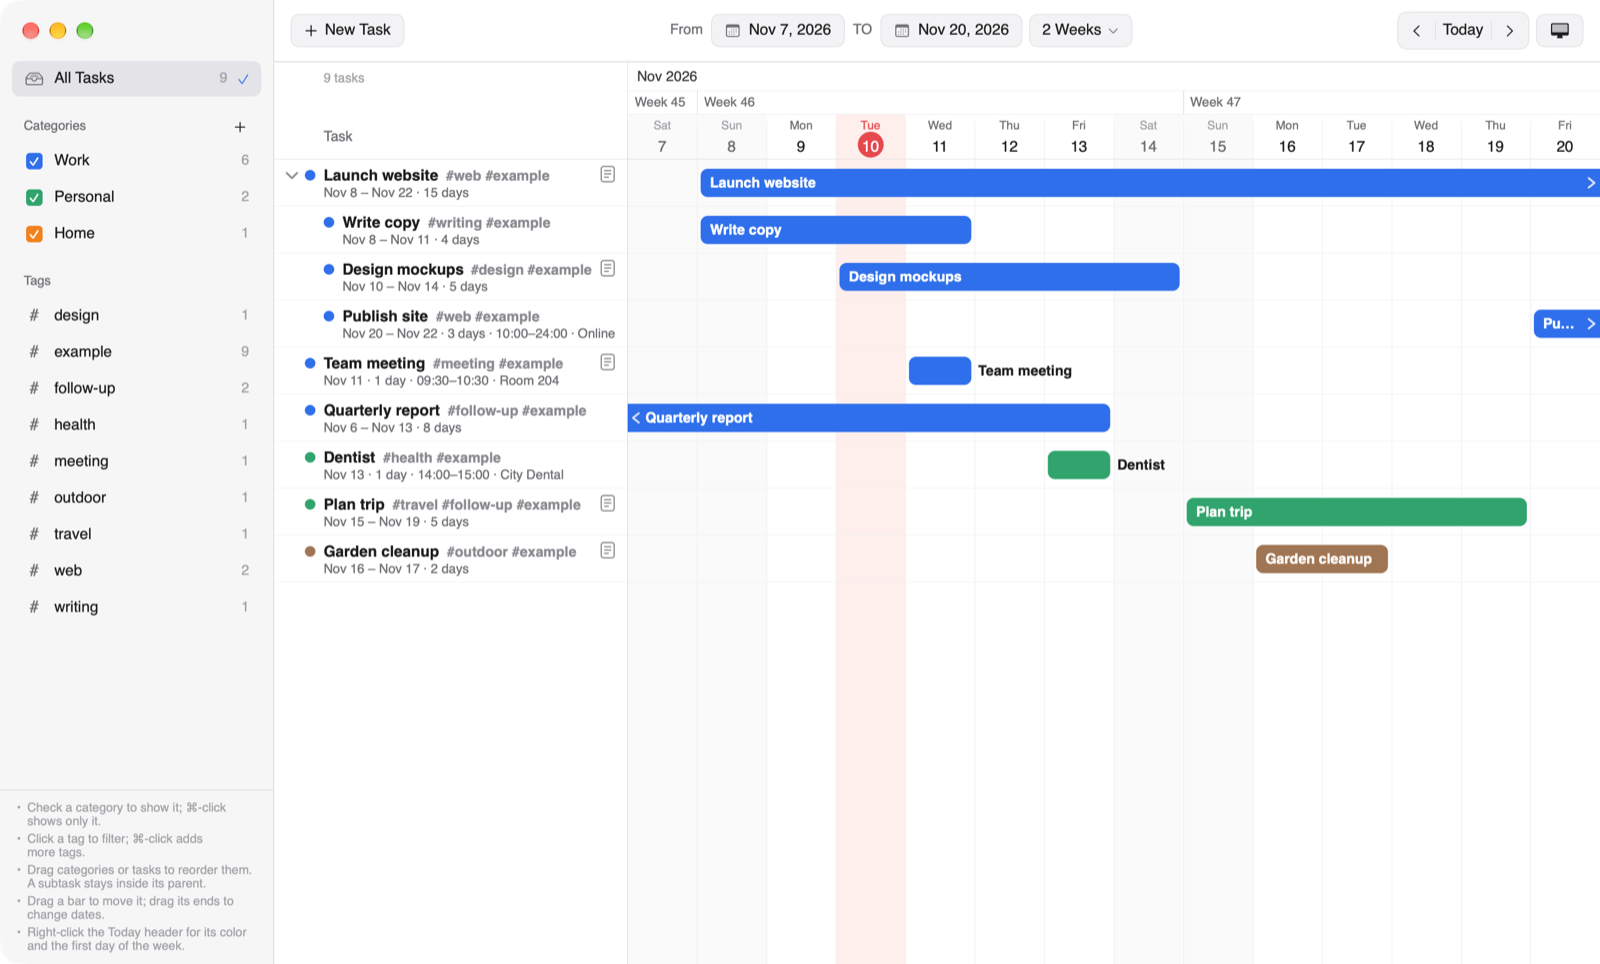
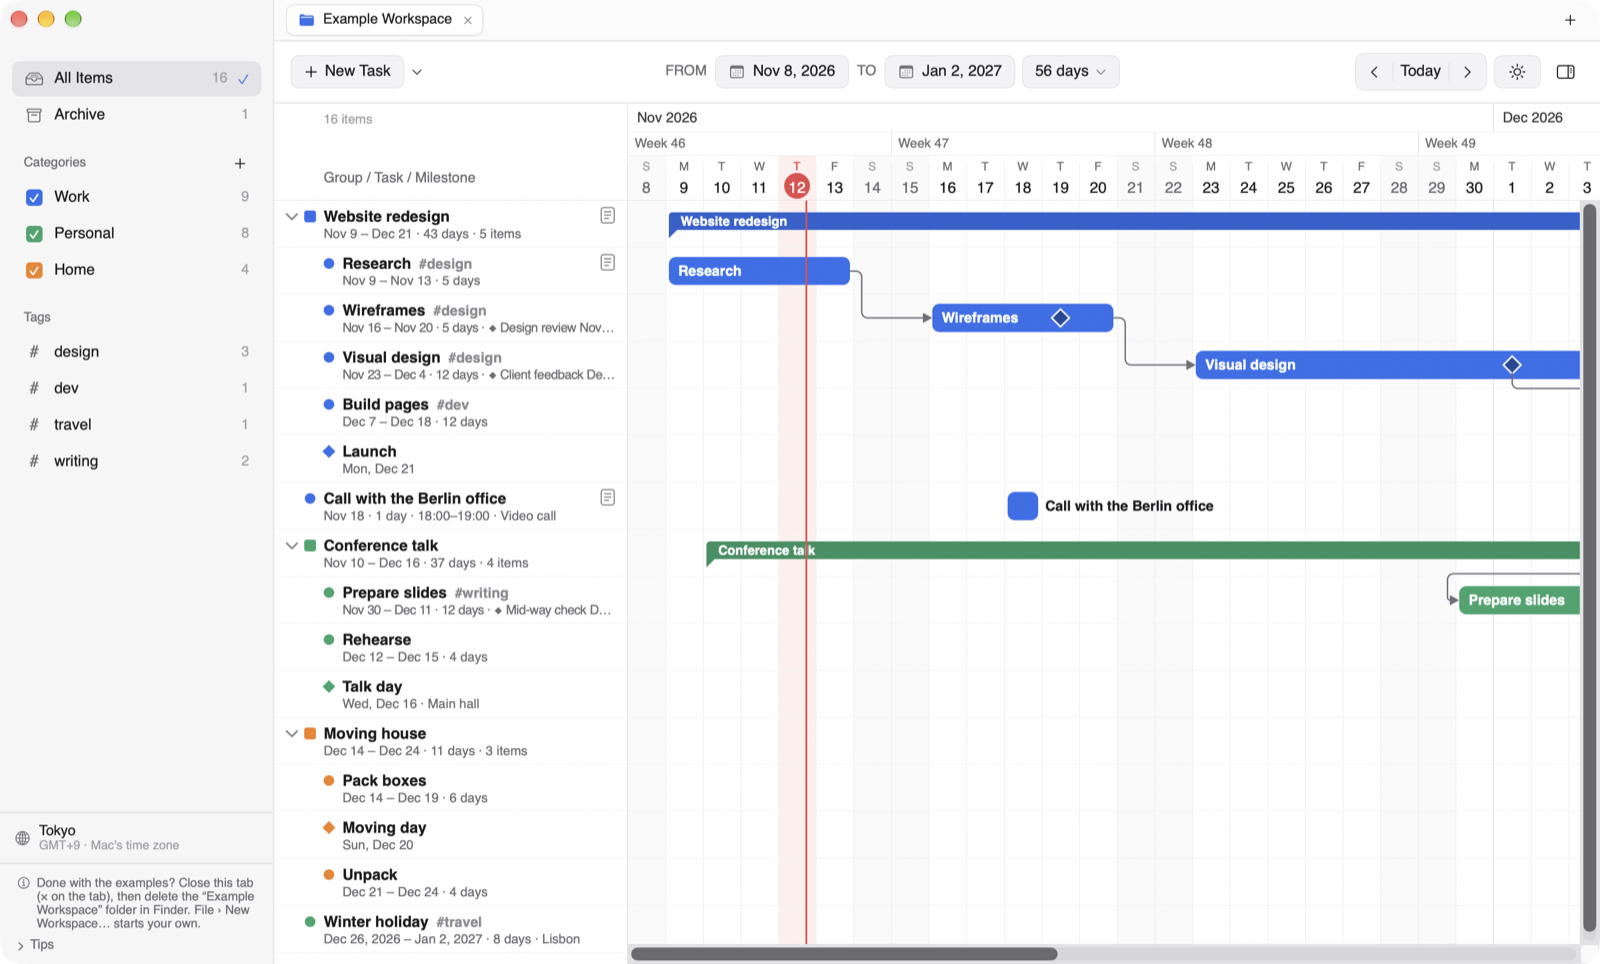
Add files via upload

diff --git a/README.md b/README.md
@@ -4,120 +4,153 @@
 
 # DaySpindle
 
-A Gantt chart task manager for macOS and Windows. Plan tasks and subtasks on a day-by-day timeline, color them by category, tag them, and drag their bars to reschedule.
+A Gantt chart task manager for macOS and Windows. Plan **groups**, **tasks** and **milestones** on a day-by-day timeline. Join them with **dependency arrows**, color them by category, tag them, and drag their bars to reschedule.
 
-It runs entirely on your computer: no account, no cloud service, no network access. Your tasks live in one readable JSON file, and the Mac and Windows versions use the same file format, so you can move your tasks between them.
+It runs entirely on your computer: no account, no cloud service, no network access. Everything is saved in a **workspace folder** you choose. The Mac and Windows versions open the same workspace folders, so you can keep one in iCloud Drive, OneDrive or on a USB stick, or move it between a Mac and a PC.
 
-![DaySpindle on macOS, showing the example tasks](docs/screenshot.png)
+![DaySpindle on macOS, showing the Example Workspace](docs/screenshot.png)
 
-**Version 2.0.** Developed by **Ruichen Li**. Free for everyone to use under the [MIT License](LICENSE). If you share it, keep the author's name with it.
+**Version 2.1.** Developed by **Ruichen Li**. Free for everyone to use under the [MIT License](LICENSE). If you share it, keep the author's name with it.
 
 
 ## Choose your version
 
 | | macOS | Windows |
 |---|---|---|
-| **Download** | [`DaySpindle-2.0-macOS.zip`](macOS/DaySpindle-2.0-macOS.zip) (2.2 MB) | the [`Windows`](Windows) folder: one zip in 7 parts, plus `join-parts.cmd` (158 MB in all) |
-| **Needs** | macOS 14 Sonoma or later, on Apple silicon or Intel | Windows 10 or 11, 64-bit (Windows 11 on Arm runs it through emulation) |
-| **Size once unpacked** | about 7 MB | about 360 MB |
+| **Download** | [`DaySpindle-2.1-macOS.zip`](macOS/DaySpindle-2.1-macOS.zip) (2.9 MB) | the [`Windows`](Windows) folder: [`Start DaySpindle.cmd`](Windows/Start%20DaySpindle.cmd) and the app in 8 parts in [`package`](Windows/package) (151 MB in all) |
+| **Needs** | macOS 14 Sonoma or later, on Apple silicon or Intel | Windows 10 (version 1803 or later) or Windows 11, 64-bit (Windows 11 on Arm runs it through emulation) |
+| **Size once unpacked** | about 10 MB | about 360 MB |
 | **Made with** | Swift (AppKit and SwiftUI), a native Mac app | Electron |
 | **Full instructions** | [macOS README](macOS/README.md) | [Windows README](Windows/README.md) |
 
-The two versions look and work the same way. Nothing has to be built or installed: unzip and open.
+The two versions look and work the same way. Each folder also holds an **`Example Workspace`** to try things out, and the app's source code in `source`.
 
-GitHub accepts files of at most 25 MB through its web page, so the Windows zip is split into 7 parts. [`join-parts.cmd`](Windows/join-parts.cmd) joins them back together on Windows without any extra software. See [Install on Windows](#install-on-windows).
+GitHub accepts files of at most 25 MB through its web page, so the Windows app is split into 8 parts of at most 20 MB. The first time you run it, [`Start DaySpindle.cmd`](Windows/Start%20DaySpindle.cmd) puts the parts back together on Windows, checks the result and unpacks the app, without any extra software.
+
+
+## What's new in 2.1
+
+- **Groups, tasks and milestones.** A task with subtasks becomes a group that spans everything inside it. A milestone can have its own row, or sit on a task's bar to mark a key moment such as a review or a deadline.
+- **Dependency arrows** between items (Finish → Start and the other three types). An arrow can leave from and arrive at any of an item's four sides, and each arrow has its own color and thickness.
+- **A details pane on the right.** Double-click an item or an arrow to see and edit everything about it.
+- **Completed and the Archive.** Mark an item as completed, whether you finished on time or early. It moves to the **Archive** in the sidebar, together with everything inside it. Unmark it there and it returns to exactly where it was.
+- **Time zones,** like Calendar: an item with a time keeps the moment it was entered in, and shows in the time zone you choose.
+- **Workspaces and tabs.** Each workspace is a folder you choose, and several can be open at once, each in its own tab along the top of the window.
+- **An Example Workspace** that opens by itself the first time, and **Tips** you can unfold at the bottom left of the window.
+
+Everything that changed since 2.0, in short: [CHANGELOG.md](CHANGELOG.md). Coming from 2.0? Your tasks aren't lost. See [Upgrading from 2.0](#upgrading-from-20).
 
 
 ## Features
 
 - A timeline with a month bar, week numbers and weekdays. Choose the range with From/TO dates or a time scale from 1 Week to 1 Year, and scroll sideways through time.
-- Tasks with start and end dates, optional start and end times, location and notes. Subtasks nest under their parents and can be collapsed.
-- Categories with colors and notes, each with a checkbox to show or hide its tasks. Tags work as filters, and they combine with categories.
-- Drag a bar to move a task, drag its ends to change its dates, and drag rows to reorder tasks and categories.
+- Items with start and end dates, optional start and end times and time zone, location and notes. Groups can be collapsed.
+- Categories with colors and notes, each with a checkbox to show or hide its items. Tags work as filters, and they combine with categories.
+- Drag a bar to move an item, drag its ends to change its dates, and drag rows to reorder items and categories. Dragging a group moves everything inside it.
 - Light, Dark or System appearance, a Today color you choose, and Sunday, Monday or Saturday as the first day of the week.
 - Undo and redo for every change. Each change is saved straight away.
 
 
 ## Download
 
-- **Both versions at once:** click the green **Code** button at the top of this page, choose **Download ZIP** (about 160 MB), and unzip it. The Mac version is in its `macOS` folder, the Windows version in its `Windows` folder.
-- **Only the Mac version:** open [`macOS/DaySpindle-2.0-macOS.zip`](macOS/DaySpindle-2.0-macOS.zip) and click the download button (**Download raw file**) at the top right.
-- **Only the Windows version:** open the [`Windows`](Windows) folder and download its 7 parts (`DaySpindle-2.0-Windows-x64.zip.001` to `.007`) and `join-parts.cmd` the same way, into one folder.
+- **Both versions at once (easiest):** click the green **Code** button at the top of this page, choose **Download ZIP** (about 155 MB), and unzip it. The Mac version is in its `macOS` folder, the Windows version in its `Windows` folder, each with its `Example Workspace`.
+- **With git:** `git clone` this repository.
+
+GitHub's web page doesn't download single folders, so the full download is the simplest way to get an app together with its Example Workspace. To get only the Mac app, open [`macOS/DaySpindle-2.1-macOS.zip`](macOS/DaySpindle-2.1-macOS.zip) and click the download button (**Download raw file**) at the top right. It works without the Example Workspace: choose **File › New Workspace…** to start your own.
 
 
 ## Install on a Mac
 
-1. Double-click `DaySpindle-2.0-macOS.zip` to unzip it. Open the `DaySpindle-2.0-macOS` folder it makes, and drag `DaySpindle.app` into **Applications**.
-2. Open it. The app isn't signed by an Apple-registered developer or notarized by Apple, so macOS blocks it the first time:
+1. Open the `macOS` folder and double-click `DaySpindle-2.1-macOS.zip`. `DaySpindle.app` appears next to it, beside the `Example Workspace` folder.
+2. Open `DaySpindle.app`. It isn't signed by an Apple-registered developer or notarized by Apple, so macOS blocks it the first time:
    - **macOS 15 or later:** click **Done**. Open **System Settings › Privacy & Security**, scroll down, click **Open Anyway** next to the message about DaySpindle, and confirm.
    - **macOS 14:** right-click the app, choose **Open**, then click **Open**.
 
    macOS remembers your choice, so you do this only once.
-3. The first start shows a few example tasks around today's date, all tagged **#example**. Delete them when you're ready. **Help › Add Example Tasks** brings them back.
+3. The Example Workspace opens by itself. If you see the welcome screen instead, choose **Open Workspace…** and pick the `Example Workspace` folder.
 
-All the details, including where your tasks are kept and how to remove the app, are in the [macOS README](macOS/README.md).
+You can move `DaySpindle.app` to your Applications folder whenever you like. All the details are in the [macOS README](macOS/README.md).
 
 
 ## Install on Windows
 
-1. **Join the parts.** Put the 7 parts and `join-parts.cmd` in one folder, then double-click `join-parts.cmd`. If Windows warns about a file from the internet, click **More info**, then **Run anyway** (or **Run**). It joins the parts into `DaySpindle-2.0-Windows-x64.zip`, checks that the zip is complete, and says **Done**.
-2. **Unzip it.** Right-click `DaySpindle-2.0-Windows-x64.zip` and choose **Properties**. If you see **Unblock**, tick it and click **OK**. Then right-click the zip and choose **Extract All**.
-3. **Put the `DaySpindle-2.0-Windows-x64` folder where it can stay,** for example `C:\Users\<your name>\DaySpindle`. Don't run the app from inside the zip or from a USB stick, and avoid `C:\Program Files`.
-4. **Open the `DaySpindle for Windows` folder and double-click `DaySpindle.exe`.** The app isn't signed by a publisher, so Windows may say "Windows protected your PC". Click **More info**, then **Run anyway**. Windows asks only once.
-5. The first start shows the same example tasks as on the Mac.
+1. Open the `Windows` folder and double-click **`Start DaySpindle.cmd`**. Keep everything in the `Windows` folder together.
+   - If Windows says **"Windows protected your PC"**, click **More info**, then **Run anyway**. The app isn't signed by a publisher, so Windows doesn't recognize it yet.
+   - If Windows asks whether to run a file downloaded from the internet, choose **Run**.
+2. The first time, it joins the 8 parts, checks that nothing is damaged (SHA-256) and unpacks the app into a new folder, `DaySpindle for Windows`. This takes about a minute. Then DaySpindle opens with the Example Workspace.
+3. After that, start DaySpindle the same way, or double-click `DaySpindle.exe` in the `DaySpindle for Windows` folder. To pin it, right-click `DaySpindle.exe` and choose **Pin to taskbar** or **Pin to Start**.
 
-All the details, including the 7-Zip alternative to step 1, the checksum and troubleshooting, are in the [Windows README](Windows/README.md).
+All the details, including troubleshooting, are in the [Windows README](Windows/README.md).
 
 
-## Where your tasks are stored
+## The Example Workspace
+
+A small made-up plan: three groups (*Website redesign*, *Conference talk*, *Moving house*), milestones on their own rows and on task bars, arrows leaving and arriving at different sides, a completed task in the Archive, and a call entered in Berlin time.
+
+When you're done with it, close its tab (the **×** on the tab), then delete the `Example Workspace` folder. The note at the bottom left of the window says the same while it's open. To start your own, choose **File › New Workspace…** and pick a folder (use **New Folder** in the dialog to make one): that folder becomes the workspace, and its tab is named after it.
+
+
+## Upgrading from 2.0
+
+DaySpindle 2.0 kept all your tasks in one file inside your user folder. 2.1 keeps them in workspace folders you choose, and leaves the 2.0 file where it was. To bring your 2.0 tasks into 2.1:
+
+1. Open DaySpindle 2.1 and choose **File › Import Tasks from DaySpindle 2.0…**. (The welcome screen also has a button for it.)
+2. Choose a folder for them, for example a new folder `My Tasks` in Documents (use **New Folder** in the dialog). It becomes a workspace, and your tasks open in a tab named after it.
+
+Your 2.0 tasks become groups and tasks, and keep their dates, categories and tags. The 2.0 file isn't changed, so you can run the import again. Once your tasks are in 2.1, you can delete the 2.0 app. The 2.0 file is in:
+
+- **macOS:** `~/Library/Application Support/org.dayspindle.DaySpindle/dayspindle-data.json`
+- **Windows:** `%APPDATA%\DaySpindle\dayspindle-data.json`
+
+
+## Where your data is stored
 
 | | macOS | Windows |
 |---|---|---|
-| **Your tasks** | `~/Library/Application Support/org.dayspindle.DaySpindle/dayspindle-data.json` | `%APPDATA%\DaySpindle\dayspindle-data.json` |
-| **Copy from the previous session** | `dayspindle-data.previous.json`, in the same folder | `dayspindle-data.previous.json`, in the same folder |
-| **Your settings** | the app's preferences, `org.dayspindle.DaySpindle` | `%APPDATA%\DaySpindle\settings.json` |
-| **Show the file** | **DaySpindle › Show Data File in Finder** | **File › Show Data File** |
+| **Your items** | `dayspindle-data.json`, in each workspace folder | `dayspindle-data.json`, in each workspace folder |
+| **Automatic backup** | `dayspindle-data.previous.json`, in the same folder: the file as it was when the workspace was last opened | the same |
+| **Your settings** (open tabs, time zone, appearance) | the app's preferences, `org.dayspindle.DaySpindle` | `%APPDATA%\DaySpindle\settings.json` |
 
-Your tasks are kept outside the app's folder, so replacing the app with a newer version keeps them. To back them up, copy `dayspindle-data.json` somewhere safe.
+Your workspaces are kept outside the app, so replacing the app with a newer version keeps them. To back up a workspace, copy its folder somewhere safe.
 
 
-## Moving your tasks between a Mac and a PC
+## Moving a workspace between a Mac and a PC
 
-The two versions don't sync with each other. Use one at a time, and move the file when you switch.
-
-- **Mac to PC:** on the Mac, choose **DaySpindle › Show Data File in Finder** and copy `dayspindle-data.json` to the PC. In DaySpindle on the PC, choose **File › Import Data…** and pick it. The app asks first, and keeps a copy of the data it replaces.
-
-  On a PC where DaySpindle has never run, you can instead put the file in the `DaySpindle-2.0-Windows-x64` folder, next to its `README.md`, before the first start. `DaySpindle.exe` imports it on its own.
-- **PC to Mac:** on the PC, choose **File › Export Data…** and copy the file to the Mac. On the Mac, quit DaySpindle, then put the file in `~/Library/Application Support/org.dayspindle.DaySpindle/` as `dayspindle-data.json`, replacing the one there.
+Copy the workspace folder to the other computer, or keep it in a folder both computers can see (iCloud Drive, OneDrive, Dropbox or a USB stick). On the other computer, choose **File › Open Workspace…** (⌘O on a Mac, Ctrl+O on Windows) and pick the folder. Use one computer at a time: close the workspace on one before you change it on the other.
 
 
 ## Keyboard shortcuts
 
 | Action | Mac | Windows |
 |---|---|---|
-| New task / new subtask / new category | ⌘N / ⌥⌘N / ⇧⌘N | Ctrl+N / Ctrl+Alt+N / Ctrl+Shift+N |
-| Edit selected task | ⌘E or Return | Ctrl+E, Enter, or double-click |
-| Delete selected task | Delete | Delete |
-| Move selected task up / down | ⌥⌘↑ / ⌥⌘↓ | Alt+↑ / Alt+↓ |
-| Collapse / expand selected parent | ← / → | ← / → |
-| Today | ⌘T | Ctrl+T |
-| Previous / next period | ⌥⌘← / ⌥⌘→ | Alt+← / Alt+→ |
-| All Tasks / Clear Filters | ⌘1 / ⌘K | Ctrl+1 / Ctrl+K |
+| New task / subtask | ⌘N / ⌥⌘N | Ctrl+N / Ctrl+Alt+N |
+| New milestone / group / category | ⇧⌘M / ⇧⌘G / ⇧⌘N | Ctrl+Shift+M / Ctrl+Shift+G / Ctrl+Shift+N |
+| Show details / show or hide the details pane | ⌘E (or Return) / ⌥⌘I | Ctrl+E (or Enter) / Ctrl+I |
+| Mark as completed (to the Archive) / return from the Archive | ⇧⌘C | Ctrl+Shift+C |
+| Move up / down among its siblings | ⌥⌘↑ / ⌥⌘↓ | Alt+↑ / Alt+↓ |
+| Delete the selected item or arrow | Delete | Delete |
+| Undo / redo | ⌘Z / ⇧⌘Z | Ctrl+Z / Ctrl+Y |
+| Go to today | ⌘T | Ctrl+T |
+| All items / clear filters | ⌘1 / ⌘K | Ctrl+1 / Ctrl+K |
+| New workspace / open workspace | ⌃⌘N / ⌘O | Ctrl+Alt+Shift+N / Ctrl+O |
+| Next or previous workspace tab / close the tab | ⌘} or ⌘{ / ⇧⌘W | Ctrl+Tab or Ctrl+Shift+Tab / Ctrl+W |
 | Settings | ⌘, | Ctrl+, |
-| Undo / Redo | ⌘Z / ⇧⌘Z | Ctrl+Z / Ctrl+Y |
+| Cancel a drag or an arrow being drawn | Esc | Esc |
 
 On Windows the menus are in the window's menu bar, and **Settings…** is in the **File** menu.
 
 
 ## Removing DaySpindle
 
-- **macOS:** quit DaySpindle and move `DaySpindle.app` to the Trash. To remove your tasks and settings too, delete `~/Library/Application Support/org.dayspindle.DaySpindle` and run `defaults delete org.dayspindle.DaySpindle` in Terminal.
-- **Windows:** delete the DaySpindle folder. To remove your tasks and settings too, also delete `%APPDATA%\DaySpindle` and `%LOCALAPPDATA%\DaySpindle`.
+Your workspace folders stay where they are; delete them yourself if you no longer need them.
+
+- **macOS:** quit DaySpindle and move `DaySpindle.app` to the Trash. To remove its settings too, run `defaults delete org.dayspindle.DaySpindle` in Terminal.
+- **Windows:** delete the `Windows` folder (with `DaySpindle for Windows` inside). To remove its settings too, also delete `%APPDATA%\DaySpindle` and `%LOCALAPPDATA%\DaySpindle`.
 
 
 ## Privacy
 
-DaySpindle has no account and doesn't connect to the internet. It doesn't collect, track or send any data. Everything you enter stays in the files listed under [Where your tasks are stored](#where-your-tasks-are-stored), on your own computer.
+DaySpindle has no account and doesn't connect to the internet. It doesn't collect, track or send any data. Everything you enter stays in your workspace folders and the settings listed under [Where your data is stored](#where-your-data-is-stored), on your own computer.
 
 
 ## What's in this repository
@@ -125,25 +158,34 @@ DaySpindle has no account and doesn't connect to the internet. It doesn't collec
 | File or folder | What it is |
 |---|---|
 | [`README.md`](README.md) | this page |
+| [`CHANGELOG.md`](CHANGELOG.md) | what changed since the previous version |
 | [`LICENSE`](LICENSE) | the MIT License |
-| [`docs`](docs) | the [icon](docs/icon.png) and the [screenshot](docs/screenshot.png) shown on this page |
-| [`macOS`](macOS) | the Mac version, [`DaySpindle-2.0-macOS.zip`](macOS/DaySpindle-2.0-macOS.zip), and its [README](macOS/README.md) |
-| [`Windows`](Windows) | the Windows version as one zip in 7 parts, [`join-parts.cmd`](Windows/join-parts.cmd), and its [README](Windows/README.md) |
-
-Unzipped, the two versions contain:
+| [`docs`](docs) | the [icon](docs/icon.png) and the screenshots of the [Mac](docs/screenshot.png) and [Windows](docs/screenshot-windows.png) versions |
+| [`macOS`](macOS) | the Mac version: [`DaySpindle-2.1-macOS.zip`](macOS/DaySpindle-2.1-macOS.zip), its `Example Workspace`, its source code, and its [README](macOS/README.md) |
+| [`Windows`](Windows) | the Windows version: [`Start DaySpindle.cmd`](Windows/Start%20DaySpindle.cmd), the app in 8 parts in `package`, its `Example Workspace`, its source code, and its [README](Windows/README.md) |
 
 ```
-DaySpindle-2.0-macOS/
-├── DaySpindle.app                 the Mac app
-├── README.md                      install and use on a Mac
-└── LICENSE.txt
+macOS/
+├── DaySpindle-2.1-macOS.zip       the app; double-click to unzip DaySpindle.app
+├── Example Workspace/             the example workspace
+├── source/                        Swift sources and build.sh, which builds the zip
+└── README.md                      install and use on a Mac
 
-DaySpindle-2.0-Windows-x64/
-├── DaySpindle for Windows/        the Windows app: DaySpindle.exe and the files it needs
-├── README.md                      install and use on Windows
-├── LICENSE.txt
-└── dayspindle.cmd                 optional: opens DaySpindle from Command Prompt
+Windows/
+├── Start DaySpindle.cmd           double-click to start; the first time, it puts the app together
+├── package/                       the app as one zip in 8 parts (.001 to .008)
+├── Example Workspace/             the example workspace
+├── source/                        JavaScript, HTML and CSS on Electron, and build-windows.sh
+└── README.md                      install and use on Windows
 ```
+
+`DaySpindle.app` (unzipped on a Mac) and `DaySpindle for Windows` (unpacked on a PC) are made on your computer and aren't part of the repository.
+
+
+## Building from source
+
+- **macOS:** with Xcode or the Xcode Command Line Tools (`xcode-select --install`), run `./macOS/source/build.sh`. It builds the app for Apple silicon and Intel and writes `macOS/DaySpindle-2.1-macOS.zip` again.
+- **Windows:** on a Mac, run `./Windows/source/build-windows.sh`. It downloads Node.js and Electron once and writes `Windows/package` and `Windows/Start DaySpindle.cmd` again. On Windows, to run the code directly, install [Node.js](https://nodejs.org), then in `Windows/source` run `npm install` and `npm start`.
 
 
 ## Developer, license and disclaimer

diff --git a/CHANGELOG.md b/CHANGELOG.md
@@ -1,0 +1,27 @@
+# What changed
+
+## 2.1, compared with 2.0
+
+### New
+
+- **Groups, tasks and milestones.** A task with subtasks becomes a group that spans everything inside it. A milestone can have its own row, or sit on a task's bar.
+- **Dependency arrows** between items: Finish → Start, Start → Start, Finish → Finish and Start → Finish. They can leave from and arrive at any of an item's four sides, with their own color and thickness.
+- **A details pane on the right** in place of the task editing window. Double-click an item or an arrow to edit it.
+- **Completed and the Archive.** Completed items move to the Archive in the sidebar, and return to their place when unmarked (⇧⌘C on a Mac, Ctrl+Shift+C on Windows).
+- **Time zones,** like Calendar: an item with a time keeps the moment it was entered in.
+- **Workspaces and tabs.** Your items are saved in folders you choose, and several workspaces can be open at once, in tabs along the top of the window.
+- **Tips** at the bottom left of the sidebar, folded by default.
+
+### Changed
+
+- **Where your data is saved:** in each workspace's folder (`dayspindle-data.json`), no longer in one file in your user folder. **File › Import Tasks from DaySpindle 2.0…** brings your 2.0 tasks into a workspace and leaves the 2.0 file as it was. See [Upgrading from 2.0](README.md#upgrading-from-20).
+- **Moving between a Mac and a PC:** open the same workspace folder on both, instead of exporting and importing a file.
+- **Examples:** an `Example Workspace` folder comes with each version and opens by itself the first time. 2.0 added example tasks tagged `#example` to your own list instead.
+- **Installing on Windows:** double-click `Start DaySpindle.cmd`. It joins the parts, checks them and unpacks the app by itself; in 2.0 you ran `join-parts.cmd` and unzipped the result yourself. The app is now 8 parts of 20 MB in `Windows/package`, in place of 16 parts of 10 MB.
+- **Installing on a Mac:** `DaySpindle-2.1-macOS.zip` unzips straight to `DaySpindle.app`.
+- **Layout:** the workspace tabs are the top row of the window, above the dates and the time scale. The date range reads **FROM … TO**, and the Today line is a plain line.
+- **Source code:** each version's folder now includes its source code and the script that builds it.
+
+### Removed from this repository
+
+These 2.0 files are replaced by the 2.1 files above: `Windows/join-parts.cmd`, `Windows/DaySpindle-2.0-Windows-x64.zip.001` to `.016`, and `macOS/DaySpindle-2.0-macOS.zip`.
